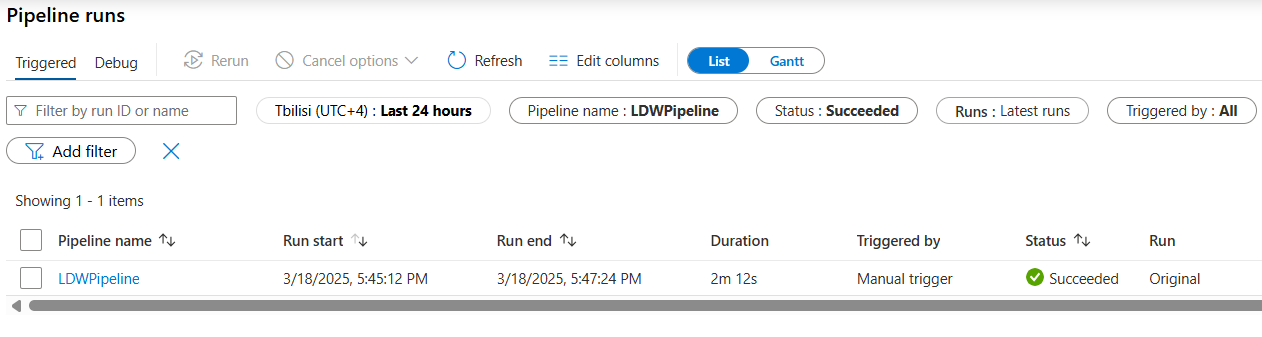
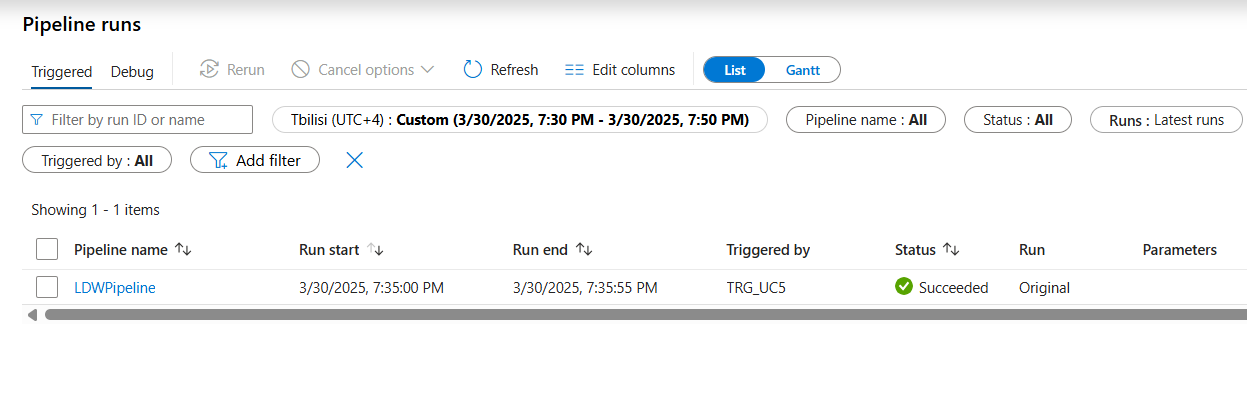
Task 5.3: Fixed

diff --git a/UseCase5/Subtask3/README.md b/UseCase5/Subtask3/README.md
@@ -9,4 +9,8 @@
     ![](./screenshots/trigger-daily.png)
 
 3. Trigger your pipeline and take a screenshot of execution results.
+    ![](./screenshots/top10shows-folder.png)
+
+4. Pipeline execution triggered by trigger:
     ![](./screenshots/success-run.png)
+    
